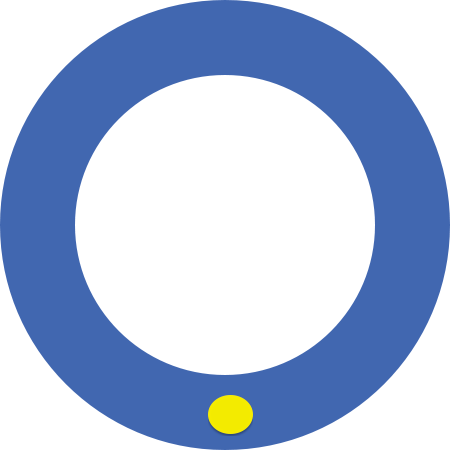
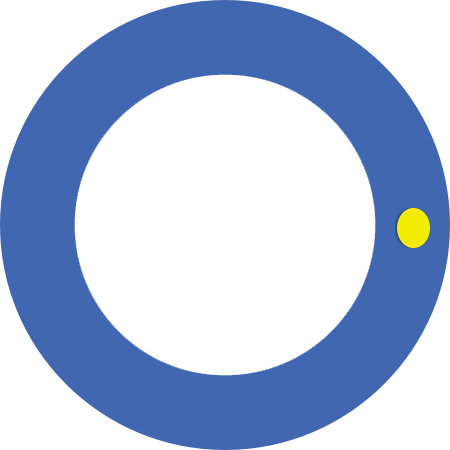
started to implement halfwheelrotation, still buggy

diff --git a/Knobs/HalfSteeringWheel.m b/Knobs/HalfSteeringWheel.m
@@ -19,27 +19,70 @@
 
 @implementation HalfSteeringWheel
 
-@synthesize  delegate, /* container,*/ startTransform, currentAngle, previousAngle;
+@synthesize delegate, /* container,*/ startTransform, currentAngle, previousAngle;
 
-- (id)initWithFrame:(CGRect)frame
-{
-    self = [super initWithFrame:frame];
-    if (self) {
-        // Initialization code
+- (id)initWithFrame:(CGRect)frame Label:(NSString*)text ZeroPosition:(float)zeroPos Delegate:(id)del {
+    
+    if ((self = [super initWithFrame:frame])) {
+        self.zeroPosition = zeroPos; // TODO: have this default to zero
+        self.delegate = del;
+        self.previousAngle = 0;
+        self.currentAngle = 0;
+        [self drawWheelWithLabel:text];
     }
     return self;
 }
 
-/*
-// Only override drawRect: if you perform custom drawing.
-// An empty implementation adversely affects performance during animation.
-- (void)drawRect:(CGRect)rect
-{
-    // Drawing code
-}
-*/
+- (void) drawWheelWithLabel:(NSString*)text {
+    
+    //container = [[UIView alloc] initWithFrame:self.frame];
+    
+    self.bg = [[UIImageView alloc] initWithFrame:self.frame];
+    self.bg.image = [UIImage imageNamed:@"blueTracker.png"];
+    [self addSubview:self.bg];
+    
+    float myWidth = self.bounds.size.width;
+    float myHeight = self.bounds.size.height;
+    CGPoint myCenter = CGPointMake(myWidth/2.0f, myHeight/2.0f);
+    
+    // Draw text label
+    float textRectOriginX = myCenter.x - (LABEL_WIDTH_RATIO/2.0)*myWidth;
+    float textRectOriginY = myCenter.y - (LABEL_HEIGHT_RATIO*myWidth) - TEXT_MARGIN;
+    
+    CGRect textRect = CGRectMake(textRectOriginX, textRectOriginY, LABEL_WIDTH_RATIO*myWidth, LABEL_HEIGHT_RATIO*myHeight);
+    
+    UILabel *textLabel = [[UILabel alloc] initWithFrame:textRect];
+    textLabel.text = text;
+    textLabel.textAlignment = NSTextAlignmentCenter;
+    
+    // Draw value label
+    float valueRectOriginY = myCenter.y + TEXT_MARGIN;
+    
+    CGRect valueRect = CGRectMake(textRectOriginX, valueRectOriginY, LABEL_WIDTH_RATIO*myWidth, LABEL_HEIGHT_RATIO*myHeight);
 
-/*
+    
+    
+    self.valueLabel = [[UILabel alloc] initWithFrame:valueRect];
+    self.valueLabel.text = @"0.0";
+    self.valueLabel.textAlignment = NSTextAlignmentCenter;
+    
+    [self addSubview:textLabel];
+    [self addSubview:self.valueLabel];
+    
+    // rotate wheel to starting position
+    self.bg.transform = CGAffineTransformRotate(self.bg.transform, -DEGREES_TO_RADIANS(self.zeroPosition));
+    
+    //container.userInteractionEnabled = NO;
+    //[self addSubview:container];
+    startTransform = self.bg.transform;
+    [self.delegate wheelDidChangeValue: [NSString stringWithFormat:@"%i", ((int)currentAngle)] :currentAngle];
+}
+
+- (void)turnWheel:(double)angle {
+    //   self.bg.transform = CGAffineTransformRotate(startTransform, angle);
+    //    [self.delegate wheelDidChangeValue: [NSString stringWithFormat:@"%i", ((int)angle)] :angle];
+}
+
 - (BOOL)beginTrackingWithTouch:(UITouch *)touch withEvent:(UIEvent *)event {
     
     CGPoint touchPoint = [touch locationInView:self];
@@ -50,7 +93,7 @@
     
     if (dist < 40 || dist > 100)
     {
-        // forcing a tap` to be on the ferrule
+        // forcing a tap to be on the ferrule
         NSLog(@"ignoring tap (%f,%f)", touchPoint.x, touchPoint.y);
         return NO;
     }
@@ -60,11 +103,9 @@
     
     return YES;
 }
-*/
 
 - (BOOL)continueTrackingWithTouch:(UITouch*)touch withEvent:(UIEvent*)event
 {
-    
     // calculate new angle
     CGPoint touchPoint = [touch locationInView:self];
     CGPoint center = CGPointMake(self.bounds.size.width/2.0f, self.bounds.size.height/2.0f);
@@ -72,78 +113,57 @@
     float dy = touchPoint.y - center.y;
     float angle = atan2(dy,dx);
     
-    // convert angle to degrees and scale to range needed by the MIT HRTF library,
-    // where zero degrees is on the y-axis, not the x-axis
-    currentAngle = RADIANS_TO_DEGREES(angle) + 90;
-    if (currentAngle > 180) {
-        while (currentAngle > 180) {
-            currentAngle -= 360;
-        }
-    } else if (currentAngle <= -180){
-        while (currentAngle <= -180) {
-            currentAngle +=360;
-        }
-    }
+    // rotate wheel by the difference between the current and previous angles
+    currentAngle = RADIANS_TO_DEGREES(angle) - self.zeroPosition;
     
-    // only accept angles in the range [-90, 90]
-    if (currentAngle > 90) {
-        currentAngle = 90;
-    } else if (currentAngle < -90) {
+    if (currentAngle < -90) {
+        angle = -M_PI;
         currentAngle = -90;
+    } else if (currentAngle > 90) {
+        angle = M_PI;
+        currentAngle = 90;
     }
     
     // rotate wheel by the difference between the current and previous angles
-    float angleDifference = previousAngle - DEGREES_TO_RADIANS(currentAngle);
+    float angleDifference = previousAngle - angle;
     self.bg.transform = CGAffineTransformRotate(startTransform, -angleDifference);
     
+    self.valueLabel.text = [NSString stringWithFormat:@"%.2f", currentAngle];
+    
     [self.delegate wheelDidChangeValue: [NSString stringWithFormat:@"%i", ((int)currentAngle)] :currentAngle];
+    
     return YES;
 }
 
-/*
+
 - (void)endTrackingWithTouch:(UITouch*)touch withEvent:(UIEvent*)event
 {
-    
     // calculate new angle
     CGPoint touchPoint = [touch locationInView:self];
     CGPoint center = CGPointMake(self.bounds.size.width/2.0f, self.bounds.size.height/2.0f);
     float dx = touchPoint.x - center.x;
     float dy = touchPoint.y - center.y;
-    float ang = atan2(dy,dx);
-    
-    float angleDifference = previousAngle - ang;
-    self.bg.transform = CGAffineTransformRotate(startTransform, -angleDifference);
-    
-    // convert angle to degrees and scale to range needed by the MIT HRTF library,
-    // where zero degrees is on the y-axis, not the x-axis
-    currentAngle = RADIANS_TO_DEGREES(angle) + 90;
-    if (currentAngle > 180) {
-        while (currentAngle > 180) {
-            currentAngle -=360;
-        }
-    } else if (currentAngle <= -180) {
-        while (currentAngle <= -180) {
-            currentAngle +=360;
-        }
-    }
-    
-    // only accept angles in the range [-90, 90]
-    if (currentAngle > 90) {
-        currentAngle = 90;
-    } else if (currentAngle < -90) {
-        currentAngle = -90;
-    }
-    
+    float angle = atan2(dy,dx);
     
     // rotate wheel by the difference between the current and previous angles
-    float angleDifference = previousAngle - DEGREES_TO_RADIANS(currentAngle);
+    currentAngle = RADIANS_TO_DEGREES(angle) - self.zeroPosition;
     
-    NSLog(@"Rotating half steering wheel %f radians...", angleDifference);
+    if (currentAngle < -90) {
+        angle = -M_PI;
+        currentAngle = -90;
+    } else if (currentAngle > 90) {
+        angle = M_PI;
+        currentAngle = 90;
+    }
+    
+    float angleDifference = previousAngle - angle;
     self.bg.transform = CGAffineTransformRotate(startTransform, -angleDifference);
-
-    // previousAngle = currentAngle;
+    
+    NSLog(@"Previous Angle: %f", previousAngle);
+    
+    self.valueLabel.text = [NSString stringWithFormat:@"%.2f", currentAngle];
+    previousAngle = currentAngle;
     [self.delegate wheelDidChangeValue: [NSString stringWithFormat:@"%i", ((int)currentAngle)] :currentAngle];
 }
-*/
 
 @end

diff --git a/Knobs/SteeringWheel.m b/Knobs/SteeringWheel.m
@@ -9,13 +9,6 @@
 #import "SteeringWheel.h"
 #import <QuartzCore/QuartzCore.h>
 
-// ratios of label dimensions to self dimensions
-#define LABEL_WIDTH_RATIO 0.5
-#define LABEL_HEIGHT_RATIO 0.2
-
-// distance in px of each text box from center of wheel
-#define TEXT_MARGIN 0
-
 @interface SteeringWheel()
 - (void)drawWheel;
 @end
@@ -41,7 +34,7 @@
     //container = [[UIView alloc] initWithFrame:self.frame];
     
     self.bg = [[UIImageView alloc] initWithFrame:self.frame];
-    self.bg.image = [UIImage imageNamed:@"blueTracker0.png"];
+    self.bg.image = [UIImage imageNamed:@"blueTracker.png"];
     [self addSubview:self.bg];
     
     float myWidth = self.bounds.size.width;
@@ -71,7 +64,8 @@
     [self addSubview:self.valueLabel];
     
     // rotate wheel to starting position
-    self.bg.transform = CGAffineTransformRotate(self.bg.transform, self.zeroPosition);
+    self.bg.transform = CGAffineTransformRotate(self.bg.transform, -DEGREES_TO_RADIANS(self.zeroPosition));
+    NSLog(@"%f", -DEGREES_TO_RADIANS(self.zeroPosition));
     
     //container.userInteractionEnabled = NO;
     //[self addSubview:container];
@@ -119,8 +113,7 @@
     self.bg.transform = CGAffineTransformRotate(startTransform, -angleDifference);
     
     // convert angle to degrees and scale to range needed by the MIT HRTF library,
-    // where zero degrees is on the y-axis, not the x-axis
-    currentAngle = RADIANS_TO_DEGREES(angle) + 90;
+    currentAngle = RADIANS_TO_DEGREES(angle) - self.zeroPosition;
 
     if (currentAngle > 180) {
         while (currentAngle > 180) {
@@ -156,7 +149,7 @@
    
     // convert angle to degrees and scale to range needed by the MIT HRTF library,
     // where zero degrees is on the y-axis, not the x-axis
-    currentAngle = RADIANS_TO_DEGREES(angle) + 90;
+    currentAngle = RADIANS_TO_DEGREES(angle) - self.zeroPosition;
     if (currentAngle > 180) {
         while (currentAngle > 180) {
             currentAngle -=360;

diff --git a/Knobs/ViewController.mm b/Knobs/ViewController.mm
@@ -36,11 +36,11 @@
     Sonic::setPlayerBearing(0.0);
     audioObj1 = Sonic::addAudioObject("input1mono.wav", 0, 1, 0);
     
-    azimuthWheel = [[SteeringWheel alloc] initWithFrame:CGRectMake(0, 0, 150, 150) Label:@"YAW" ZeroPosition:M_PI/2.0 Delegate:self];
+    azimuthWheel = [[SteeringWheel alloc] initWithFrame:CGRectMake(0, 0, 150, 150) Label:@"YAW" ZeroPosition:90 Delegate:self];
     azimuthWheel.center = CGPointMake(160, 130);
     [self.view addSubview:azimuthWheel];
     
-    elevationWheel = [[HalfSteeringWheel alloc] initWithFrame:CGRectMake(0, 0, 150, 150) Label:@"PITCH" ZeroPosition:0.0 Delegate:self];
+    elevationWheel = [[HalfSteeringWheel alloc] initWithFrame:CGRectMake(0, 0, 150, 150) Label:@"PITCH" ZeroPosition:0 Delegate:self];
     elevationWheel.center = CGPointMake(160, 350);
     [self.view addSubview:elevationWheel];
 

diff --git a/Knobs/SteeringWheel.h b/Knobs/SteeringWheel.h
@@ -11,6 +11,15 @@
 
 #define RADIANS_TO_DEGREES(radians) ((radians) * (180.0 / M_PI))
 
+#define DEGREES_TO_RADIANS(deg) (deg * (M_PI / 180.0))
+
+// ratios of label dimensions to self dimensions
+#define LABEL_WIDTH_RATIO 0.5
+#define LABEL_HEIGHT_RATIO 0.2
+
+// distance in px of each text box from center of wheel
+#define TEXT_MARGIN 0
+
 @interface SteeringWheel : UIControl
 
 @property (weak) id <RotaryProtocol> delegate;
